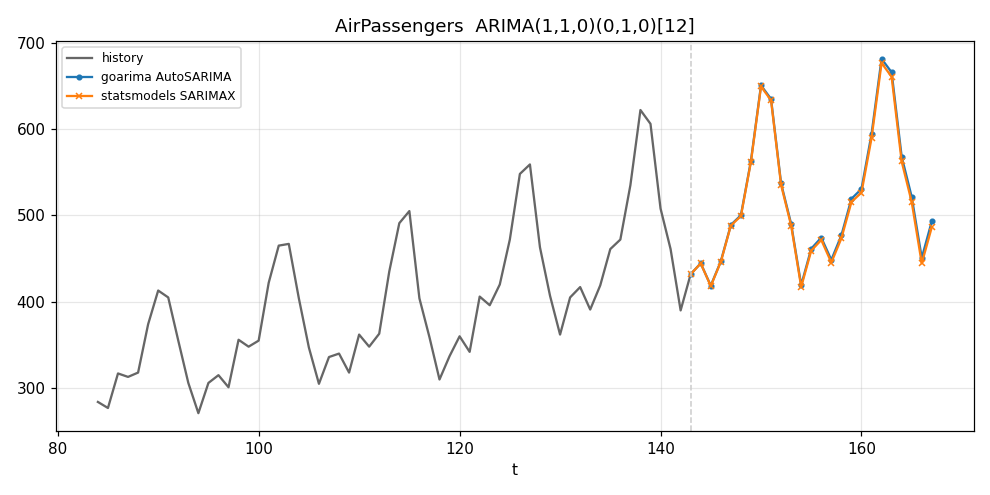
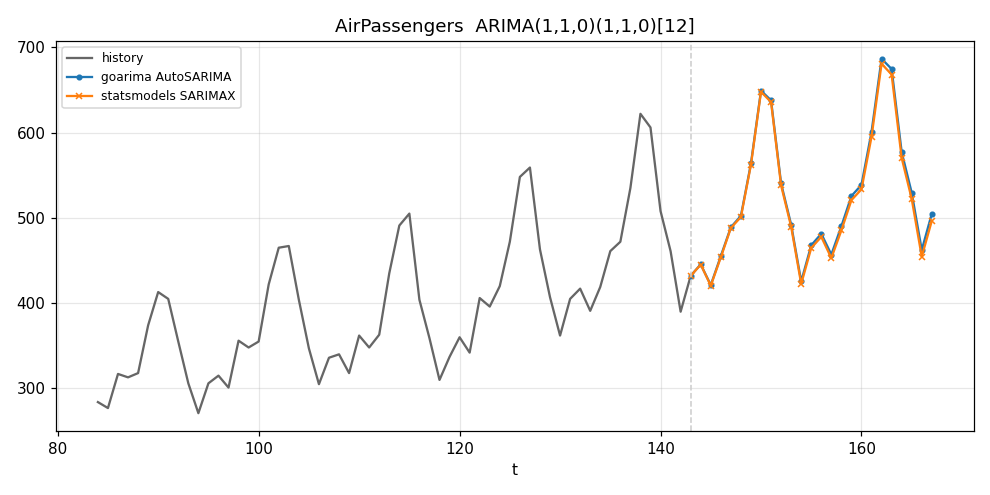
Document full multiplicative seasonal AR/MA models

diff --git a/docs/examples.md b/docs/examples.md
@@ -5,7 +5,7 @@ maximum-likelihood reference at the same orders:
 
 - **ARIMA (non-seasonal)** — `AutoARIMA` vs [pmdarima](https://alkaline-ml.com/pmdarima/).
 - **Prediction intervals** — `ForecastInterval` confidence bands vs pmdarima's.
-- **Seasonal differencing (SARIMAX)** — `AutoSARIMA` vs statsmodels **SARIMAX**.
+- **Seasonal models (SARIMAX)** — `AutoSARIMA` vs statsmodels **SARIMAX**.
 
 In every chart the grey line is the observed history, the dashed line marks the
 last observation, and the two coloured lines are the forecasts continuing from it.
@@ -98,8 +98,8 @@ interval. The two charts below show the two levers.
 
 A non-seasonal `ARIMA(4,1,0)` on AirPassengers leaves the entire 12-month cycle in
 its residuals, so σ² — and the band — are large. Switching to `AutoSARIMA`, which
-takes a seasonal difference, drops σ² roughly **6×** (884 → 137) and the band with
-it, while the forecast finally follows the yearly peaks:
+models the seasonality, drops σ² roughly **6×** (884 → 135) and the band with it,
+while the forecast finally follows the yearly peaks:
 
 ![AirPassengers: a seasonal model tightens the 95% interval](images/airpassengers_interval.png)
 
@@ -112,7 +112,7 @@ tighter and centred on the actual cycle.
 // wide band: non-seasonal
 ns, _ := goarima.AutoARIMA(series, 5, 2, 5)              // ARIMA(4,1,0)
 // tight band: model the seasonality
-se, _ := goarima.AutoSARIMA(series, 3, 1, 3, 12)         // ARIMA(1,1,0)(0,1,0)[12]
+se, _ := goarima.AutoSARIMA(series, 3, 1, 3, 1, 1, 12)   // ARIMA(1,1,0)(1,1,0)[12]
 fc, _ := se.ForecastInterval(24, 0.95)
 ```
 
@@ -138,14 +138,15 @@ still misses the cycle and does not tighten the band.)
 
 ---
 
-## Seasonal differencing (SARIMAX)
+## Seasonal models (SARIMAX)
 
-These two strongly seasonal monthly series take a seasonal difference (`D = 1`,
-`m = 12`), so the forecasts reproduce the yearly cycle that the non-seasonal fits
-above flatten. The reference here is statsmodels' **SARIMAX** (Seasonal ARIMA with
-eXogenous regressors).
+These two strongly seasonal monthly series are fit with full multiplicative
+seasonal models — seasonal differencing *and* seasonal AR/MA terms — so the
+forecasts reproduce the yearly cycle that the non-seasonal fits above flatten. The
+reference is statsmodels' **SARIMAX** (Seasonal ARIMA with eXogenous regressors),
+fit at the same `order`/`seasonal_order`.
 
-### AirPassengers — ARIMA(1,1,0)(0,1,0)[12]
+### AirPassengers — ARIMA(1,1,0)(1,1,0)[12]
 
 Monthly international airline passengers (1949–1960): a rising trend with a strong
 12-month cycle that grows in amplitude.
@@ -156,25 +157,26 @@ Monthly international airline passengers (1949–1960): a rising trend with a st
 
 ```go
 series, _ := /* example/data/airpassengers.csv */
-model, _ := goarima.AutoSARIMA(series, 3, 1, 3, 12) // maxP, maxD, maxQ, m
+model, _ := goarima.AutoSARIMA(series, 3, 1, 3, 1, 1, 12) // maxP, maxD, maxQ, maxBigP, maxBigQ, m
 forecast, _ := model.Forecast(24)
-// selected: ARIMA(1,1,0)(0,1,0)[12]
+// selected: ARIMA(1,1,0)(1,1,0)[12]
 ```
 
-`AutoSARIMA` picked one ordinary difference (`d = 1`, KPSS) and one seasonal
-difference (`D = 1`, the seasonal-strength test), then a single AR term.
+`AutoSARIMA` picked one ordinary difference (`d = 1`, KPSS), one seasonal
+difference (`D = 1`, the seasonal-strength test), a regular AR term, and a seasonal
+AR term (`P = 1`).
 
 **statsmodels SARIMAX reference** (the orange line):
 
 ```python
-SARIMAX(series, order=(1, 1, 0), seasonal_order=(0, 1, 0, 12),
+SARIMAX(series, order=(1, 1, 0), seasonal_order=(1, 1, 0, 12),
         enforce_stationarity=False, enforce_invertibility=False).fit()
 ```
 
 The two forecasts are nearly identical — both follow the seasonal peaks and the
 upward trend.
 
-### WineInd — ARIMA(2,1,1)(0,1,0)[12]
+### WineInd — ARIMA(2,1,1)(0,1,1)[12]
 
 Monthly Australian wine sales: a sharper, noisier 12-month cycle.
 
@@ -184,18 +186,18 @@ Monthly Australian wine sales: a sharper, noisier 12-month cycle.
 
 ```go
 series, _ := /* example/data/wineind.csv */
-model, _ := goarima.AutoSARIMA(series, 3, 1, 3, 12) // maxP, maxD, maxQ, m
+model, _ := goarima.AutoSARIMA(series, 3, 1, 3, 1, 1, 12) // maxP, maxD, maxQ, maxBigP, maxBigQ, m
 forecast, _ := model.Forecast(24)
-// selected: ARIMA(2,1,1)(0,1,0)[12]
+// selected: ARIMA(2,1,1)(0,1,1)[12]
 ```
 
-Here the search added two AR terms and one MA term on top of the same
-`(d=1, D=1, m=12)` differencing.
+Here the search added two regular AR terms, a regular MA term, and a seasonal MA
+term (`Q = 1`) on top of the `(d=1, D=1, m=12)` differencing.
 
 **statsmodels SARIMAX reference:**
 
 ```python
-SARIMAX(series, order=(2, 1, 1), seasonal_order=(0, 1, 0, 12),
+SARIMAX(series, order=(2, 1, 1), seasonal_order=(0, 1, 1, 12),
         enforce_stationarity=False, enforce_invertibility=False).fit()
 ```
 
@@ -205,6 +207,7 @@ likelihood) — the same drift difference documented in the integration tests.
 
 ---
 
-> **Note on scope.** goarima implements seasonal *differencing*
-> `(p, d, q)(0, D, 0)ₘ`. The multiplicative seasonal AR/MA polynomials (`P`, `Q`)
-> are a later phase; see [`docs/arima.md`](arima.md) §7 for the details.
+> **Note.** goarima implements the full multiplicative SARIMA
+> `(p, d, q)(P, D, Q)ₘ` family (validated against statsmodels SARIMAX); it does not
+> implement exogenous regressors (the **X** in SARIMAX). See
+> [`docs/arima.md`](arima.md) §7 for the details.

diff --git a/docs/arima.md b/docs/arima.md
@@ -346,9 +346,28 @@ about seasonality. Forecasting integrates back the other way: undo the ordinary
 differencing, then add back each seasonal lag, using the last `m` observed values
 of each level as anchors (`SeasonalUndifference`).
 
-`NewSARIMA(p, d, q, D, m)` fits an explicit seasonal-differencing model.
-`AutoSARIMA(series, maxP, maxD, maxQ, m)` chooses `D` automatically with the
-**Wang-Smith-Hyndman seasonal-strength measure**
+Beyond differencing, a seasonal series often has **seasonal AR/MA** structure:
+the value relates to the same month last year, or last year's shock echoes into
+this year's. These are the multiplicative seasonal factors `Φₛ(Bᵐ)` and
+`Θₛ(Bᵐ)` — the regular AR/MA polynomials but in `Bᵐ` instead of `B`. The full
+model multiplies them with the regular factors and the differencing:
+
+```
+φ(B)·Φₛ(Bᵐ)·(1 − B)ᵈ·(1 − Bᵐ)ᴰ y_t = θ(B)·Θₛ(Bᵐ)·ε_t.
+```
+
+goarima expands these products into ordinary (long) AR/MA polynomials — e.g.
+`(1 − φ₁B)(1 − Φ₁Bᵐ)` becomes a polynomial with terms at lags `1`, `m`, and
+`m+1` — so the same estimation, state-space, and forecasting machinery handles
+them with no special cases (`expandSeasonalAR`/`expandSeasonalMA` in
+`seasonal_arma.go`). The seasonal factors are seeded by a Hannan-Rissanen
+regression extended with seasonal lags and then, under `WithMLE`, refined to the
+exact multiplicative likelihood — so `Φₛ`/`Θₛ` match statsmodels SARIMAX.
+
+`NewSARIMA(p, d, q, P, D, Q, m)` fits an explicit seasonal model; `SeasonalPhi()`
+and `SeasonalTheta()` return the fitted seasonal factors.
+`AutoSARIMA(series, maxP, maxD, maxQ, maxBigP, maxBigQ, m)` chooses `D`
+automatically with the **Wang-Smith-Hyndman seasonal-strength measure**
 
 ```
 Fs = max(0, 1 − Var(remainder) / Var(detrended))   ∈ [0, 1],
@@ -360,15 +379,14 @@ strong enough to difference (`D = 1`, capped there); otherwise `D = 0`. This is
 the rule R's `forecast::nsdiffs(test="seas")` uses, and like KPSS for `d`, it
 avoids over-differencing a series that only looks seasonal because it trends.
 After `D` is fixed, `d` is chosen by KPSS on the seasonally-differenced series and
-`p, q` by the usual information-criterion search.
+the four orders `p, q, P, Q` by the usual information-criterion search, now over a
+four-dimensional grid (the seasonal orders are capped small, `0..1` by default).
 
-This seasonal model is the differencing half of the **SARIMA**
-`(p, d, q)(P, D, Q)ₘ` family. goarima validates it against statsmodels'
-**SARIMAX** class (Seasonal ARIMA with eXogenous regressors) — the reference the
-integration suite fits at `seasonal_order=(0, D, 0, m)` — which reduces to plain
-seasonal ARIMA when, as here, there are no exogenous regressors. The seasonal
-`AR/MA` terms `P` and `Q` (the multiplicative `Φ(Bᵐ)`, `Θ(Bᵐ)` polynomials) are a
-later phase; `SeasonalOrders()` reports them as 0 for now.
+This is the full **SARIMA** `(p, d, q)(P, D, Q)ₘ` family. goarima validates it
+against statsmodels' **SARIMAX** class (Seasonal ARIMA with eXogenous regressors)
+— the reference the integration suite fits at `seasonal_order=(P, D, Q, m)` —
+which reduces to plain seasonal ARIMA when, as here, there are no exogenous
+regressors (the one piece goarima does not implement).
 
 ---
 
@@ -384,10 +402,8 @@ leaves out things a production statistics package would include:
 - **Unstable fits are rejected, not repaired.** If an explicit `(p,d,q)` lands
   outside the stationary/invertible region, `Fit` returns an error instead of
   re-estimating into the valid region.
-- **Seasonal differencing only, no seasonal AR/MA.** `NewSARIMA`/`AutoSARIMA`
-  handle the `(1−Bᵐ)ᴰ` operator (section 7), but the multiplicative seasonal
-  AR/MA polynomials are not yet implemented.
-- **No exogenous regressors.** Models are univariate; there is no `X` term.
+- **No exogenous regressors.** Models are univariate; there is no `X` term — the
+  one piece of statsmodels' SARIMA**X** goarima does not implement.
 
 See the project README's *Limitations* section for the current list.
 

diff --git a/README.md b/README.md
@@ -7,8 +7,9 @@
 ![Sunspots forecast comparison](docs/images/sunspots.png)
 
 A pure-Go implementation of ARIMA (AutoRegressive Integrated Moving Average)
-time-series modeling, with automatic order selection and seasonal differencing
-(SARIMA, validated against statsmodels SARIMAX).
+time-series modeling, with automatic order selection, prediction intervals, and
+full multiplicative seasonal `(p,d,q)(P,D,Q)ₘ` models (SARIMA, validated against
+statsmodels SARIMAX).
 
 It fits and forecasts ARIMA(p, d, q) models. By default, coefficients are
 estimated with the Hannan-Rissanen method (pure linear algebra), so fitting is
@@ -87,26 +88,27 @@ forecast, err := model.Forecast(10)
 infinite value, and `Forecast` returns an error if the model has not been fitted
 yet.
 
-### Seasonal differencing
+### Seasonal models (SARIMA)
 
-For seasonal data with a known period `m`, add seasonal differencing
-`(1−Bᵐ)ᴰ`. `NewSARIMA` takes the seasonal differencing order `D` and period `m`;
-`AutoSARIMA` selects `D` (0 or 1, via the seasonal-strength test), then `d`, `p`,
-and `q` automatically:
+For seasonal data with a known period `m`, goarima fits the full multiplicative
+SARIMA `(p,d,q)(P,D,Q)ₘ` model — seasonal differencing `(1−Bᵐ)ᴰ` plus seasonal
+AR/MA factors `Φₛ(Bᵐ)`/`Θₛ(Bᵐ)`. `NewSARIMA` takes the seasonal orders `P, D, Q`
+and period `m`; `AutoSARIMA` selects `D` (via the seasonal-strength test), then
+`d`, `p`, `q`, `P`, and `Q` automatically:
 
 ```go
-// Explicit: ARIMA(1,1,0)(0,1,0) with period 12.
-model, err := goarima.NewSARIMA(1, 1, 0, 1, 12) // p, d, q, D, m
+// Explicit: the airline model ARIMA(0,1,1)(0,1,1) with period 12.
+model, err := goarima.NewSARIMA(0, 1, 1, 0, 1, 1, 12) // p, d, q, P, D, Q, m
 
-// Automatic: choose p, d, q, and D for a monthly (m=12) series.
-model, err := goarima.AutoSARIMA(series, 3, 1, 3, 12) // maxP, maxD, maxQ, m
+// Automatic: choose p, d, q, P, Q (and D) for a monthly (m=12) series.
+model, err := goarima.AutoSARIMA(series, 3, 1, 3, 1, 1, 12) // maxP, maxD, maxQ, maxBigP, maxBigQ, m
 ```
 
-`SeasonalOrders()` returns `(P, D, Q, m)`. This is the differencing half of the
-SARIMA `(p,d,q)(P,D,Q)ₘ` family; it is validated against statsmodels'
+`SeasonalOrders()` returns `(P, D, Q, m)`, and `SeasonalPhi()`/`SeasonalTheta()`
+return the seasonal AR/MA factors (`Phi()`/`Theta()` return the regular ones).
+The fit is validated against statsmodels'
 [SARIMAX](https://www.statsmodels.org/stable/generated/statsmodels.tsa.statespace.sarimax.SARIMAX.html)
-class (fit at `seasonal_order=(0,D,0,m)`). Seasonal *AR/MA* terms (`P`, `Q`) are
-not yet implemented (they return as 0); `AutoSARIMA` accepts the same options as
+class at `seasonal_order=(P,D,Q,m)`. `AutoSARIMA` accepts the same options as
 `AutoARIMA`.
 
 ### Coefficient refinement
@@ -249,19 +251,17 @@ inline and the exact settings used to generate them (`example/plot_seasonal.py`)
 
 ## Limitations
 
-This is an approximate implementation with seasonal *differencing* but not yet
-seasonal AR/MA. In particular:
+This is a pure-Go implementation that aims for clarity over completeness:
 
 - **Approximate by default.** The default Hannan-Rissanen fit is close to, but
   not identical to, statsmodels' default. The optional `WithMLE` refinement adds
   an exact Gaussian maximum-likelihood fit (Kalman filter), though small numeric
-  differences from statsmodels remain.
+  differences from statsmodels remain. For seasonal AR/MA models, the fast default
+  uses an approximate seasonal seed; `WithMLE` matches SARIMAX.
 - **Non-invertible/non-stationary fixed-order fits are rejected, not repaired.**
   `Fit` returns an error rather than estimating into the valid region, so some
   explicit `(p,d,q)` requests fail instead of producing a model.
-- **Seasonal differencing only.** `NewSARIMA`/`AutoSARIMA` handle the SARIMA
-  `(1−Bᵐ)ᴰ` operator (validated against statsmodels SARIMAX), but the
-  multiplicative seasonal AR/MA polynomials `(P, Q)` are not yet implemented.
+- **No exogenous regressors.** Models are univariate; there is no `X` term.
 
 ## Development
 

diff --git a/CLAUDE.md b/CLAUDE.md
@@ -22,7 +22,7 @@ CI (`.drone.yml`) runs `make test`, `make race`, `make cover`, `make benchmark`,
 
 ## Architecture
 
-Two entry points: construct a model with explicit orders via `NewARIMA(p,d,q)` + `Fit`, or let `AutoARIMA(series, maxP, maxD, maxQ)` choose the orders and return a fitted model. Seasonal *differencing* is available via `NewSARIMA(p,d,q,D,m)` and `AutoSARIMA(series, maxP, maxD, maxQ, m)` (seasonal AR/MA orders P,Q are a later phase — `SeasonalOrders()` returns them as 0). Both `Fit` and `AutoARIMA` are variadic in `FitOption`; `WithCSSRefinement()` enables the opt-in CSS refinement and `WithMLE()` the exact Gaussian MLE refinement (MLE takes precedence if both are passed). `Fit` and `AutoARIMA` reject a series containing NaN or ±Inf (`validateFinite`); `Forecast` errors until the model has been fitted (the `fitted` flag).
+Two entry points: construct a model with explicit orders via `NewARIMA(p,d,q)` + `Fit`, or let `AutoARIMA(series, maxP, maxD, maxQ)` choose the orders and return a fitted model. Full multiplicative seasonal models are available via `NewSARIMA(p,d,q,P,D,Q,m)` and `AutoSARIMA(series, maxP, maxD, maxQ, maxBigP, maxBigQ, m)`; `SeasonalOrders()` returns `(P,D,Q,m)` and `SeasonalPhi()`/`SeasonalTheta()` the seasonal AR/MA factors (validated against statsmodels SARIMAX). Both `Fit` and `AutoARIMA` are variadic in `FitOption`; `WithCSSRefinement()` enables the opt-in CSS refinement and `WithMLE()` the exact Gaussian MLE refinement (MLE takes precedence if both are passed). `Fit` and `AutoARIMA` reject a series containing NaN or ±Inf (`validateFinite`); `Forecast` errors until the model has been fitted (the `fitted` flag).
 
 The `ARIMA.Fit` pipeline (`goarima.go`):
 
@@ -41,15 +41,16 @@ Forecasting (`ARIMA.Forecast`) runs `forecastDiff` on the centered scale (rollin
 
 `AutoARIMA` (`autoarima.go` + `search.go`): `selectD` picks `d` with the KPSS level-stationarity test (`kpss.go`) — difference until the series tests stationary, up to maxD; then a search over `p,q` minimizes an information criterion (`score(crit, n, sigma2, p, q)` in `criterion.go`), skipping `(0,0)` and any fit that errors (non-stationary/non-invertible fits are rejected in `estimate.go`, see `stability.go`). The criterion defaults to AIC and is selectable with `WithCriterion(AIC|BIC|AICc)`. The search is an exhaustive grid by default; `WithStepwise()` switches to a Hyndman-Khandakar neighbor hill-climb (fewer fits, heuristic) and `WithParallel()` fits candidates concurrently (GOMAXPROCS workers, deterministic reduce — same result as serial, only faster when each fit is expensive, e.g. `WithMLE`). All three are `FitOption`s that only `AutoARIMA` reads; `Fit` ignores them.
 
-Seasonal differencing (`seasonal.go`, `diff.go`): `NewSARIMA(p,d,q,D,m)` adds the `(1−Bᵐ)ᴰ` operator. `Fit` applies seasonal differencing *first* (recording the last `m` values at each level in `seasonalAnchors`), then the existing regular-diff/center/estimate pipeline runs unchanged on the seasonally-differenced series `s`; `Forecast` undoes regular differencing then seasonal differencing (`SeasonalUndifference`). `AutoSARIMA` picks `D` (0 or 1) with the Wang-Smith-Hyndman seasonal-strength measure `Fs` (`selectSeasonalD`/`seasonalStrength`/`centeredMovingAverage` in `seasonal.go`, threshold 0.64, matching R `forecast::nsdiffs(test="seas")`), then `d` via KPSS on `s`, then `p,q` via the same `searchSpace` (which carries `bigD`/`period`). All `AutoARIMA` `FitOption`s thread through `AutoSARIMA` identically.
+Seasonal models (`seasonal.go`, `seasonal_arma.go`, `diff.go`): `NewSARIMA(p,d,q,P,D,Q,m)` fits the multiplicative class `φ(B)·Φₛ(Bᵐ)·(1−B)ᵈ(1−Bᵐ)ᴰ y = θ(B)·Θₛ(Bᵐ)·ε`. `Fit` applies seasonal differencing *first* (recording the last `m` values at each level in `seasonalAnchors`), then the regular-diff/center pipeline runs on `s`; the ARMA estimator is `seasonalHannanRissanen` (HR extended with seasonal-lag regressors as the seed). The seasonal AR/MA factors `Φₛ`/`Θₛ` are stored separately from the regular `φ`/`θ`, and `expandSeasonalAR`/`expandSeasonalMA` (`seasonal_arma.go`, via `polyMul`) multiply each pair into the *expanded* AR/MA polynomials (`expandedPhi`/`expandedTheta`) that `forecastDiff`, the state-space build, and `ForecastInterval` all run on unchanged. `WithMLE`/`WithCSSRefinement` refine over the packed factor vector `(φ,Φₛ,θ,Θₛ)` via `refineSeasonalMLE`/`refineSeasonalCSS` (expanding inside the objective; per-factor stability penalty); the non-seasonal refiners are the `P=Q=0` special case. `Forecast` undoes regular then seasonal differencing (`SeasonalUndifference`). `AutoSARIMA` picks `D` (0 or 1) with the Wang-Smith-Hyndman seasonal-strength measure `Fs` (`selectSeasonalD`/`seasonalStrength`/`centeredMovingAverage` in `seasonal.go`, threshold 0.64, matching R `forecast::nsdiffs(test="seas")`), then `d` via KPSS on `s`, then `p,q,P,Q` via the 4-D `searchSpace` (which carries `bigD`/`period`/`maxBigP`/`maxBigQ`). All `AutoARIMA` `FitOption`s thread through `AutoSARIMA` identically.
 
 Key files:
-- `goarima.go` — `ARIMA` struct (incl. `bigD`/`period`/`seasonalAnchors`), `NewARIMA`, `NewSARIMA`, `Fit`, `Forecast`/`forecastDiff`, getters (`Orders`/`SeasonalOrders`/…), `mean`/`meanSquare`/`isConstant`.
+- `goarima.go` — `ARIMA` struct (incl. `bigP`/`bigD`/`bigQ`/`period`, `seasonalPhi`/`seasonalTheta`, cached `expandedPhi`/`expandedTheta`, `seasonalAnchors`), `NewARIMA`, `NewSARIMA`, `Fit`, `Forecast`/`forecastDiff`, getters (`Orders`/`SeasonalOrders`/`SeasonalPhi`/`SeasonalTheta`/…), `mean`/`meanSquare`/`isConstant`.
+- `seasonal_arma.go` — `expandSeasonalAR`/`expandSeasonalMA` (multiplicative factor expansion via `polyMul`) and `seasonalHannanRissanen` (the seasonal seed estimator).
 - `interval.go` — `ForecastInterval` and the `Forecast` result struct; `psiWeights`/`arPolynomial`/`polyMul` for the MA(∞) forecast-error variance.
 - `diff.go` — `Difference` / `Undifference`, `SeasonalDifference` / `SeasonalUndifference`.
 - `estimate.go` — `hannanRissanen` (the ARMA estimator), `hrAROrder`, `armaResiduals`.
-- `refine.go` — `refineCoefficients` (the shared gonum Nelder-Mead helper) and `refineCSS`, the opt-in conditional-sum-of-squares refinement of the Hannan-Rissanen estimate.
-- `mle.go` — `refineMLE`, the opt-in exact Gaussian maximum-likelihood refinement (Kalman-filter likelihood, gonum Nelder-Mead).
+- `refine.go` — `nelderMeadRefine` (the shared gonum Nelder-Mead core), `refineCoefficients`/`refineSeasonalCoefficients` (pack/unpack the factor vector), and `refineCSS`/`refineSeasonalCSS` (conditional-sum-of-squares refinement).
+- `mle.go` — `refineMLE`/`refineSeasonalMLE`, the opt-in exact Gaussian maximum-likelihood refinement (Kalman-filter likelihood over the expanded polynomials, gonum Nelder-Mead).
 - `statespace.go` — `buildStateSpace` (Harvey ARMA state-space form), `solveLyapunov` (stationary init via the discrete Lyapunov equation), `kalmanConcentratedNLL` (Kalman prediction-error decomposition, concentrated negative log-likelihood).
 - `stability.go` — `isStationary` / `isInvertible` (reflection-coefficient root test), used by the fit guards and the refinement penalty.
 - `kpss.go` — `kpssLevelStationary`, the KPSS level-stationarity test used by `selectD`.
@@ -57,7 +58,7 @@ Key files:
 - `autoarima.go` — `AutoARIMA`, `AutoSARIMA`, `selectD` (order-search dispatch + final refit).
 - `seasonal.go` — `selectSeasonalD` (seasonal-strength `Fs` test for D), `seasonalStrength`, `centeredMovingAverage`, `variance`.
 - `criterion.go` — `Criterion` (AIC/BIC/AICc) and `score`, the information criterion AutoARIMA minimizes.
-- `search.go` — `searchSpace` (carries `bigD`/`period` for seasonal fits), `evalCandidate`/`evalBatch` (optionally parallel), `gridSearch`, and `stepwiseSearch` (Hyndman-Khandakar).
+- `search.go` — `searchSpace` (carries `bigD`/`period`/`maxBigP`/`maxBigQ`), the `order` `[4]int` `(p,q,P,Q)`, `evalCandidate`/`evalBatch` (optionally parallel), `gridSearch`, and `stepwiseSearch` (Hyndman-Khandakar) — all over the 4-D `(p,q,P,Q)` space.
 
 By default, estimation is Hannan-Rissanen (pure linear algebra, no optimizer); `WithCSSRefinement()` adds a least-squares (CSS) refinement and `WithMLE()` an exact Gaussian maximum-likelihood refinement (Kalman filter, matching statsmodels' `method="statespace"`). The HR default and CSS refinement are approximate; MLE is the exact-likelihood fit, though small numeric differences from statsmodels remain.
 
@@ -65,9 +66,9 @@ The `ARIMA` struct fields are unexported; access state through the getter method
 
 ## Example data & reference scripts
 
-- `example/main.go` runs `AutoARIMA` on several `example/data/*.csv` datasets (newline-separated values): airpassengers, lynx, wineind, sunspots, woolyrnq, austres. `runAuto` selects the order via `AutoARIMA` (fast HR path) then refits that order with `WithMLE()`, so the reported coefficients are maximum-likelihood — without that the Hannan-Rissanen seed shown would diverge from pmdarima's MLE for hard, weakly-identified orders (e.g. wineind's near-unit-root (3,1,3)). It prints one `[goarima] <name> ARIMA(p,d,q)` block per dataset (order + phi/theta/forecast); `compare.py` and `plot_compare.py` parse those blocks. It also prints `[goarima-seasonal] <name> ARIMA(p,d,q)(0,D,0)[m]` blocks from `AutoSARIMA` for AirPassengers and WineInd (distinct prefix so `compare.py`, which matches `[goarima]`, ignores them; `plot_seasonal.py` parses them). It also prints `[goarima-interval] <key> <order>` blocks (a point forecast plus `lower@L`/`upper@L` bands) from `ForecastInterval` — non-seasonal vs seasonal AirPassengers at 95%, and Lynx at 80%+95% — which `plot_interval.py` parses. CSVs are exported from the vendored pmdarima `*.py` generators (or statsmodels for sunspots).
-- `integration_test.go` is the rigorous integration suite. It lives in the **external `goarima_test` package** so it exercises only the exported API. It embeds `example/data/*.csv` and the committed JSON fixtures and runs four tiers (no network/Python at test time): Tier 1a fixed-order fits vs pmdarima (`TestFixedOrdersMatchPmdarima` — coefficients only for pure AR/MA, forecasts only for `d==0`, because mixed-ARMA coefficients are non-identifiable and goarima adds a drift for `d>=1`); Tier 1b `auto_arima` selection vs pmdarima (`TestAutoSelectionVsPmdarima` — same `d`, p/q not required to match); Tier 2 analytic closed-forms via the public API; Tier 3 the goarima golden baseline (`TestGoldenWithMLE`). Seasonal differencing adds two more: `TestSeasonalFixedOrderMatchesPmdarima` (goarima `NewSARIMA` vs a statsmodels **SARIMAX** `seasonal_order=(0,D,0,m)` fit — AirPassengers `(1,1,0)(0,1,0)12`; phi only, since `d>=1` forecasts carry the drift gap) and `TestGoldenAutoSeasonalSelection` (an `AutoSARIMA` golden lock under the `auto_seasonal` key). `TestForecastIntervalMatchesStatsmodels` checks `ForecastInterval` against statsmodels' `get_forecast().conf_int()` (AirPassengers `(2,1,0)`; interval *half-widths* compared, isolating the σ²·Σψ² variance from the `d>=1` drift).
-- `testdata/pmdarima_reference.json` — committed pmdarima fixtures (fixed-order + `auto_arima` + `seasonal_fixed` (statsmodels/pmdarima **SARIMAX** `seasonal_order` fit) + `interval` (statsmodels forecast confidence bounds)), regenerated by `example/gen_reference.py` (`cd example && env/bin/python gen_reference.py`).
+- `example/main.go` runs `AutoARIMA` on several `example/data/*.csv` datasets (newline-separated values): airpassengers, lynx, wineind, sunspots, woolyrnq, austres. `runAuto` selects the order via `AutoARIMA` (fast HR path) then refits that order with `WithMLE()`, so the reported coefficients are maximum-likelihood — without that the Hannan-Rissanen seed shown would diverge from pmdarima's MLE for hard, weakly-identified orders (e.g. wineind's near-unit-root (3,1,3)). It prints one `[goarima] <name> ARIMA(p,d,q)` block per dataset (order + phi/theta/forecast); `compare.py` and `plot_compare.py` parse those blocks. It also prints `[goarima-seasonal] <name> ARIMA(p,d,q)(P,D,Q)[m]` blocks from `AutoSARIMA` (with `maxBigP=maxBigQ=1`) for AirPassengers and WineInd (distinct prefix so `compare.py`, which matches `[goarima]`, ignores them; `plot_seasonal.py` parses them). It also prints `[goarima-interval] <key> <order>` blocks (a point forecast plus `lower@L`/`upper@L` bands) from `ForecastInterval` — non-seasonal vs seasonal AirPassengers at 95%, and Lynx at 80%+95% — which `plot_interval.py` parses. CSVs are exported from the vendored pmdarima `*.py` generators (or statsmodels for sunspots).
+- `integration_test.go` is the rigorous integration suite. It lives in the **external `goarima_test` package** so it exercises only the exported API. It embeds `example/data/*.csv` and the committed JSON fixtures and runs four tiers (no network/Python at test time): Tier 1a fixed-order fits vs pmdarima (`TestFixedOrdersMatchPmdarima` — coefficients only for pure AR/MA, forecasts only for `d==0`, because mixed-ARMA coefficients are non-identifiable and goarima adds a drift for `d>=1`); Tier 1b `auto_arima` selection vs pmdarima (`TestAutoSelectionVsPmdarima` — same `d`, p/q not required to match); Tier 2 analytic closed-forms via the public API; Tier 3 the goarima golden baseline (`TestGoldenWithMLE`). Seasonal models add three more: `TestSeasonalFixedOrderMatchesPmdarima` (goarima `NewSARIMA` vs a statsmodels **SARIMAX** `seasonal_order=(0,D,0,m)` fit — AirPassengers `(1,1,0)(0,1,0)12`; phi only, since `d>=1` forecasts carry the drift gap), `TestSeasonalARMAMatchesStatsmodels` (the airline model `(0,1,1)(0,1,1)12` vs SARIMAX — regular + seasonal MA factors compared under `WithMLE`), and `TestGoldenAutoSeasonalSelection` (an `AutoSARIMA` golden lock with `maxBigP=maxBigQ=1` under the `auto_seasonal` key, which selects a seasonal-AR term). `TestForecastIntervalMatchesStatsmodels` checks `ForecastInterval` against statsmodels' `get_forecast().conf_int()` (AirPassengers `(2,1,0)`; interval *half-widths* compared, isolating the σ²·Σψ² variance from the `d>=1` drift).
+- `testdata/pmdarima_reference.json` — committed pmdarima fixtures (fixed-order + `auto_arima` + `seasonal_fixed` (SARIMAX `seasonal_order=(0,D,0,m)`) + `seasonal_arma` (SARIMAX with nonzero P/Q — the airline model, four factors captured separately) + `interval` (statsmodels forecast confidence bounds)), regenerated by `example/gen_reference.py` (`cd example && env/bin/python gen_reference.py`).
 - `testdata/goarima_golden.json` — committed goarima `WithMLE` baseline (plus the `auto_seasonal` `AutoSARIMA` lock), regenerated by `go test -run TestGoldenWithMLE -update` (normal runs never write it).
 - `example/compare.py` is the human eyeball comparison driver (run via `make example`): it runs the Go demo, parses the orders goarima's `AutoARIMA` chose, fits `pmdarima` at those same orders (pmdarima's default intercept adds a drift for `d>=1`, matching goarima), and prints the two interleaved per dataset. It depends on the `report` output format in `main.go` (the `[goarima] … ARIMA(p,d,q)` blocks), so keep that format and `parse_blocks` in sync.
 - `example/plot_compare.py` (`make charts`) reuses `compare.py`'s helpers to draw the same goarima-AutoARIMA-vs-pmdarima comparison as charts.